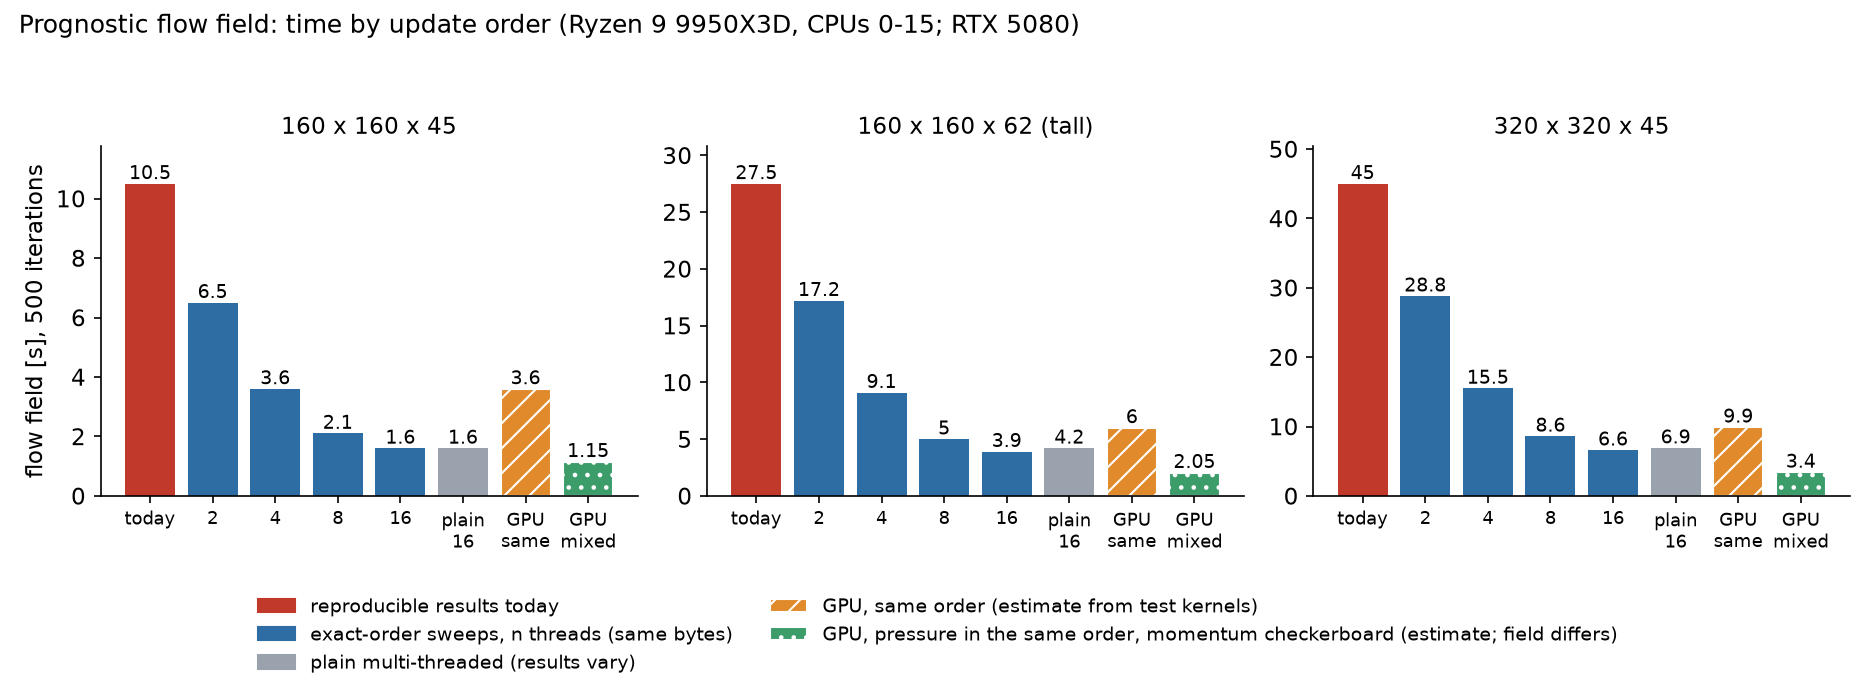
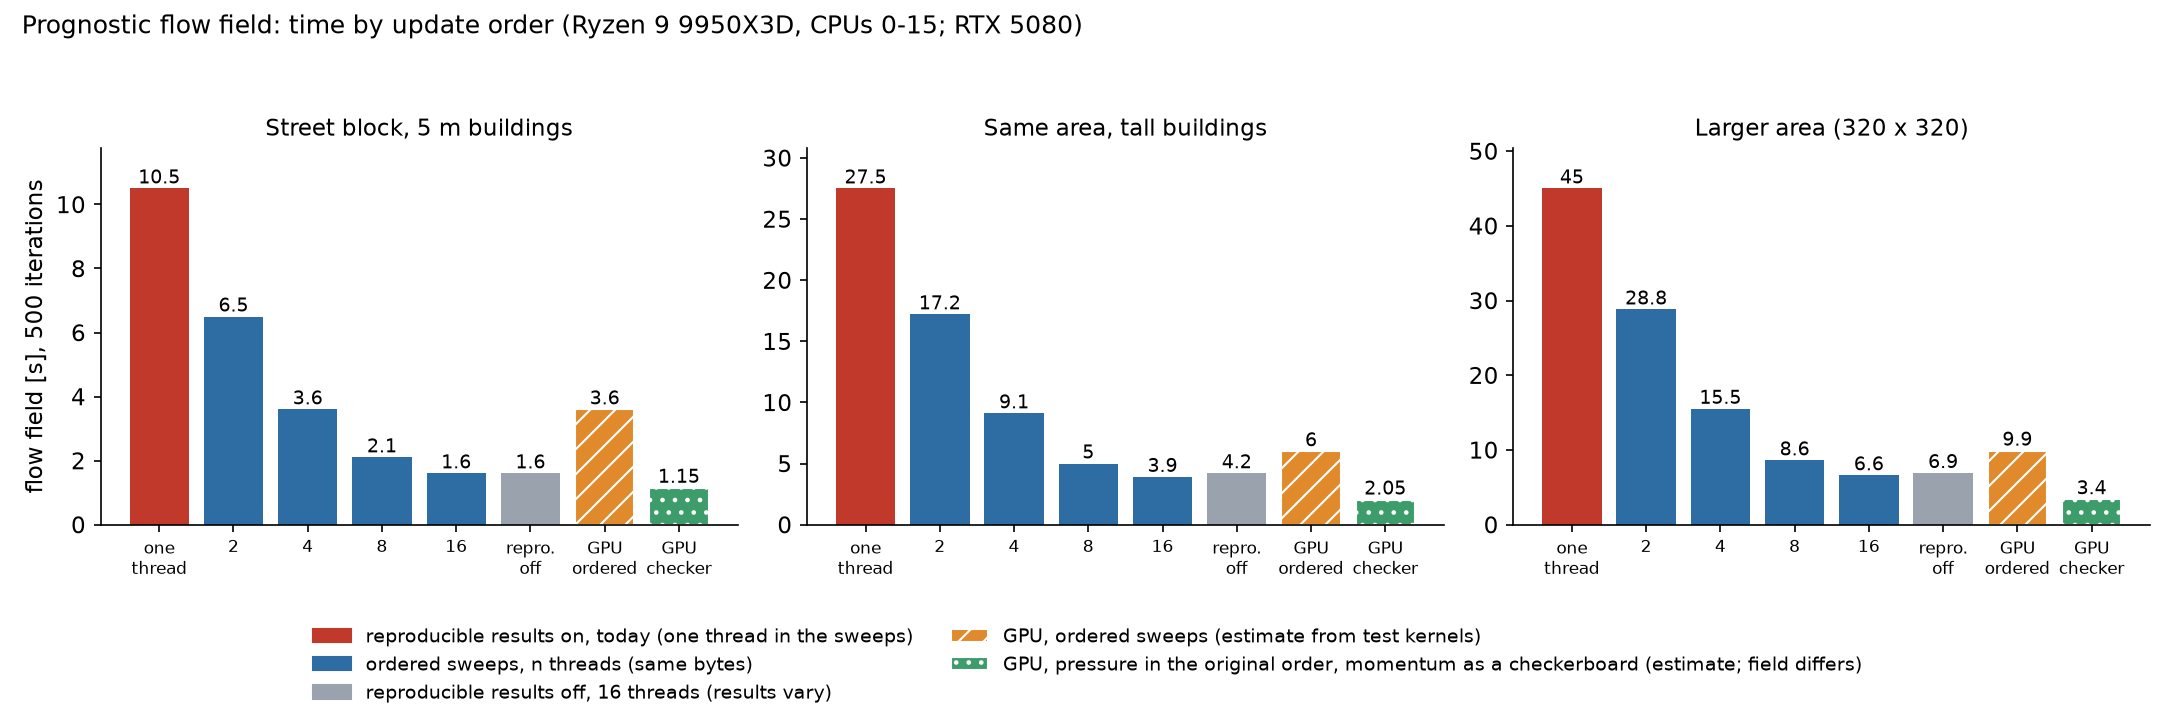
Flow-field figures: plain scenario names

diff --git a/figures/flowfield_20261113/make_figures.py b/figures/flowfield_20261113/make_figures.py
@@ -16,12 +16,12 @@ plt.rcParams.update({"font.size": 11, "axes.spines.top": False, "axes.spines.rig
 
 # ---------------------------------------------------------------- 1. where the time goes
 # whole run = wall; flow field and dispersion = GRAL console lines; rest = wall - both (mean of two runs, final/headline.jsonl)
-cases = ["160 x 160 x 45\n(5 m buildings)", "160 x 160 x 62\n(10 and 25 m buildings)", "320 x 320 x 45"]
+cases = ["Street block, 5 m buildings\n160 x 160 x 45 cells", "Same area, tall buildings\n160 x 160 x 62 cells", "Larger area\n320 x 320 x 45 cells"]
 det = dict(ff=[10.35, 28.6, 47.5], disp=[1.2, 1.4, 1.8], wall=[11.86, 30.32, 49.86])
 wav = dict(ff=[1.6, 3.9, 6.65], disp=[1.2, 1.45, 1.75], wall=[3.08, 5.71, 8.93])
-fig, ax = plt.subplots(figsize=(9.2, 4.3))
+fig, ax = plt.subplots(figsize=(10.4, 4.3))
 y = np.arange(3)
-for off, d, label in ((-0.2, det, "today"), (0.2, wav, "exact-order sweeps, 16 threads")):
+for off, d, label in ((-0.2, det, "reproducible results on, today"), (0.2, wav, "ordered sweeps, 16 threads")):
     ff, disp = np.array(d["ff"]), np.array(d["disp"])
     rest = np.array(d["wall"]) - ff - disp
     ax.barh(y + off, ff, 0.36, color=BLUE, label="prognostic flow field (CPU)" if off < 0 else None)
@@ -31,7 +31,7 @@ for off, d, label in ((-0.2, det, "today"), (0.2, wav, "exact-order sweeps, 16 t
         ax.text(d["wall"][i] + 0.6, y[i] + off, f"{d['wall'][i]:.1f} s  ({label})", va="center", fontsize=10)
 ax.set_yticks(y, cases)
 ax.invert_yaxis()
-ax.set_xlim(0, 66)
+ax.set_xlim(0, 78)
 ax.set_xlabel("wall time of one weather situation [s]")
 ax.set_title("Reproducible-results runs with GPU particles: where the time goes", loc="left", fontsize=12)
 ax.legend(loc="upper right", frameon=False, fontsize=10)
@@ -40,27 +40,27 @@ fig.savefig(OUT / "ff_time_split.png", dpi=150)
 plt.close(fig)
 
 # ---------------------------------------------------------------- 2. speed of the flow field alone
-fig, axes = plt.subplots(1, 3, figsize=(12.5, 4.6), sharey=False)
+fig, axes = plt.subplots(1, 3, figsize=(14.5, 4.8), sharey=False)
 # flow-field seconds (console line), measured: deterministic, exact order with n threads (+ diagnostic step), plain 16 threads
 data = {
-    "160 x 160 x 45": dict(det=10.5, wave={2: 6.5, 4: 3.6, 8: 2.1, 16: 1.6}, plain=1.6, gpu=3.6, mix=1.15),
-    "160 x 160 x 62 (tall)": dict(det=27.5, wave={2: 17.2, 4: 9.1, 8: 5.0, 16: 3.9}, plain=4.2, gpu=6.0, mix=2.05),
-    "320 x 320 x 45": dict(det=45.0, wave={2: 28.8, 4: 15.5, 8: 8.6, 16: 6.6}, plain=6.9, gpu=9.9, mix=3.4),
+    "Street block, 5 m buildings": dict(det=10.5, wave={2: 6.5, 4: 3.6, 8: 2.1, 16: 1.6}, plain=1.6, gpu=3.6, mix=1.15),
+    "Same area, tall buildings": dict(det=27.5, wave={2: 17.2, 4: 9.1, 8: 5.0, 16: 3.9}, plain=4.2, gpu=6.0, mix=2.05),
+    "Larger area (320 x 320)": dict(det=45.0, wave={2: 28.8, 4: 15.5, 8: 8.6, 16: 6.6}, plain=6.9, gpu=9.9, mix=3.4),
 }
 for ax, (name, d) in zip(axes, data.items()):
-    labels = ["today", "2", "4", "8", "16", "plain\n16", "GPU\nsame", "GPU\nmixed"]
+    labels = ["one\nthread", "2", "4", "8", "16", "repro.\noff", "GPU\nordered", "GPU\nchecker"]
     vals = [d["det"]] + [d["wave"][n] for n in (2, 4, 8, 16)] + [d["plain"], d["gpu"], d["mix"]]
     cols = [RED] + [BLUE] * 4 + [GREY, ORANGE, GREEN]
     bars = ax.bar(range(8), vals, color=cols)
     bars[6].set_hatch("//"); bars[6].set_edgecolor("white"); bars[7].set_hatch(".."); bars[7].set_edgecolor("white")
     for i, v in enumerate(vals):
         ax.text(i, v + d["det"] * 0.015, f"{v:g}", ha="center", fontsize=9)
-    ax.set_xticks(range(8), labels, fontsize=8.5)
+    ax.set_xticks(range(8), labels, fontsize=8)
     ax.set_title(name, fontsize=11)
     ax.set_ylim(0, d["det"] * 1.12)
 axes[0].set_ylabel("flow field [s], 500 iterations")
-fig.legend(handles=[Patch(color=RED, label="reproducible results today"), Patch(color=BLUE, label="exact-order sweeps, n threads (same bytes)"),
-                    Patch(color=GREY, label="plain multi-threaded (results vary)"), Patch(facecolor=ORANGE, hatch="//", edgecolor="white", label="GPU, same order (estimate from test kernels)"), Patch(facecolor=GREEN, hatch="..", edgecolor="white", label="GPU, pressure in the same order, momentum checkerboard (estimate; field differs)")],
+fig.legend(handles=[Patch(color=RED, label="reproducible results on, today (one thread in the sweeps)"), Patch(color=BLUE, label="ordered sweeps, n threads (same bytes)"),
+                    Patch(color=GREY, label="reproducible results off, 16 threads (results vary)"), Patch(facecolor=ORANGE, hatch="//", edgecolor="white", label="GPU, ordered sweeps (estimate from test kernels)"), Patch(facecolor=GREEN, hatch="..", edgecolor="white", label="GPU, pressure in the original order, momentum as a checkerboard (estimate; field differs)")],
            loc="lower center", ncol=2, frameon=False, fontsize=9)
 fig.suptitle("Prognostic flow field: time by update order (Ryzen 9 9950X3D, CPUs 0-15; RTX 5080)", x=0.01, ha="left", fontsize=12)
 fig.tight_layout(rect=(0, 0.16, 1, 0.94))
@@ -108,7 +108,7 @@ for s in range(steps * 2):
             elif idx == k:
                 active.append((i, j, 0))
             idx += 1
-    draw(axes[0], seq_done, active, "Today with reproducible results: one thread",
+    draw(axes[0], seq_done, active, "Reproducible results on, today: one thread",
          "Each column reads the new values of the columns\nbefore it. Always the same order, so always the same bytes.")
     # (b) plain parallel: every thread sweeps its strip from the start; reads across strip borders are old or new by timing
     done = np.full((NJ, NI), -1.0)
@@ -122,7 +122,7 @@ for s in range(steps * 2):
                 active.append((pos[t], j, t))
             if t > 0:
                 flags.append((pos[t], t * STRIP - 1))
-    draw(axes[1], done, active, "Several threads, plain: fast, results vary",
+    draw(axes[1], done, active, "Reproducible results off: several threads, results vary",
          "A column at a strip border reads a neighbour (?) that\nanother thread may or may not have updated yet.", flags)
     # (c) exact order: thread t works on step i only after thread t-1 has finished step i
     done = np.full((NJ, NI), -1.0)
@@ -135,7 +135,7 @@ for s in range(steps * 2):
         if 0 <= p < NI:
             for j in range(t * STRIP, (t + 1) * STRIP):
                 active.append((p, j, t))
-    draw(axes[2], done, active, "Several threads, exact order: fast, same bytes",
+    draw(axes[2], done, active, "Ordered sweeps: several threads, same bytes",
          "Each thread waits until the strip below has finished the\nsame step. Every column sees what the single thread saw.")
     fig.suptitle("Update order of one sweep of the flow-field solver (schematic; colours = threads)", x=0.01, ha="left", fontsize=12)
     fig.tight_layout(rect=(0, 0.06, 1, 0.93))
